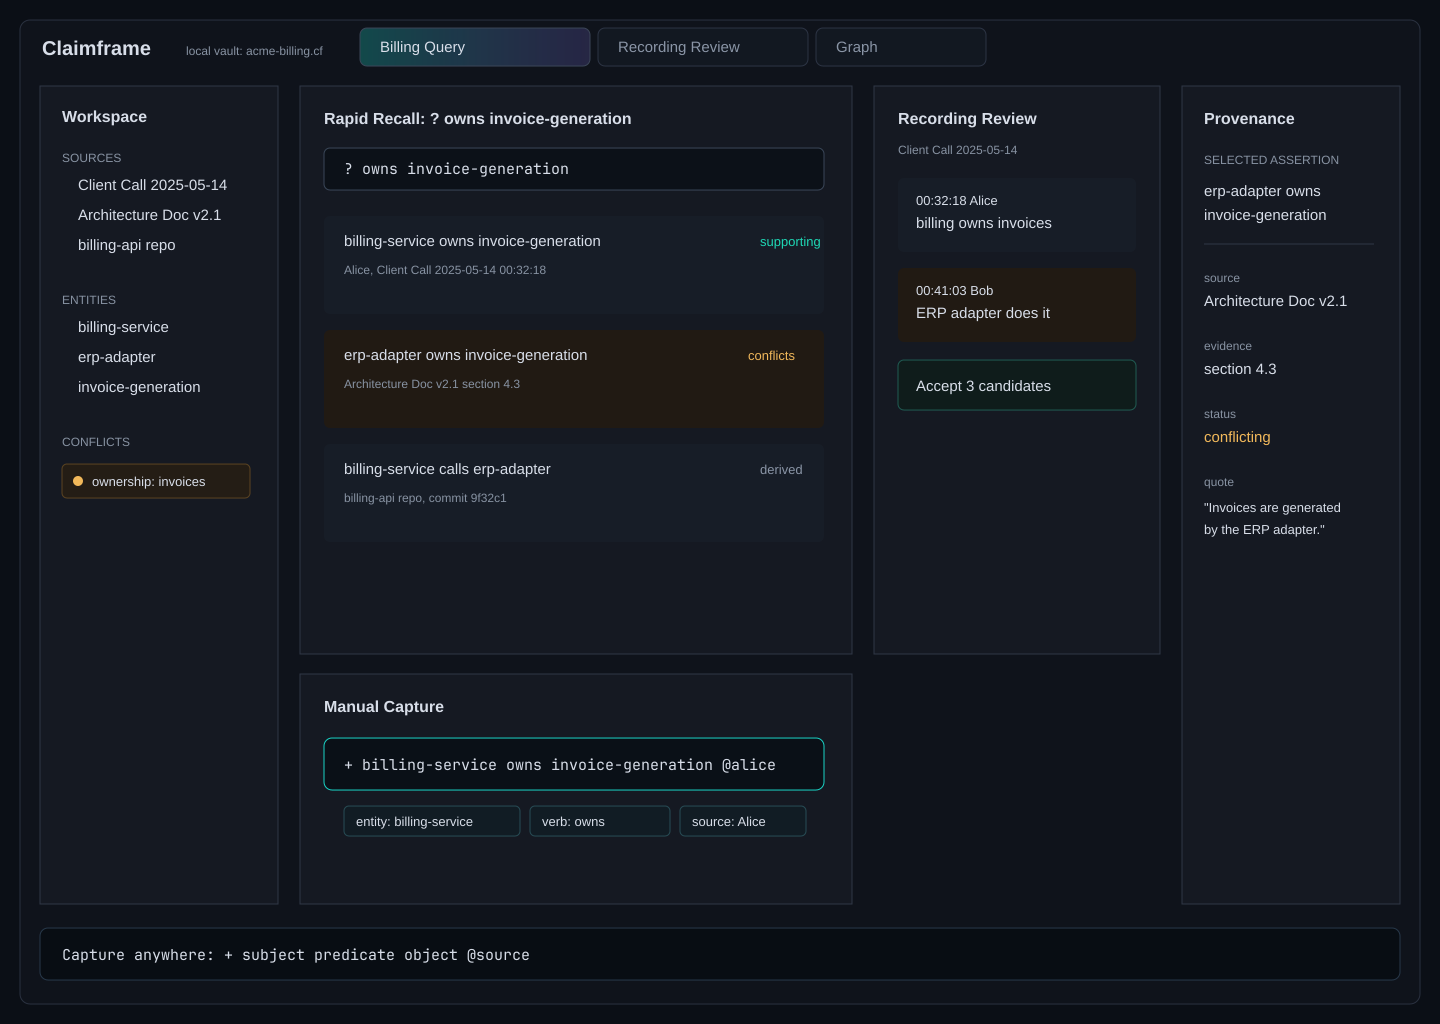
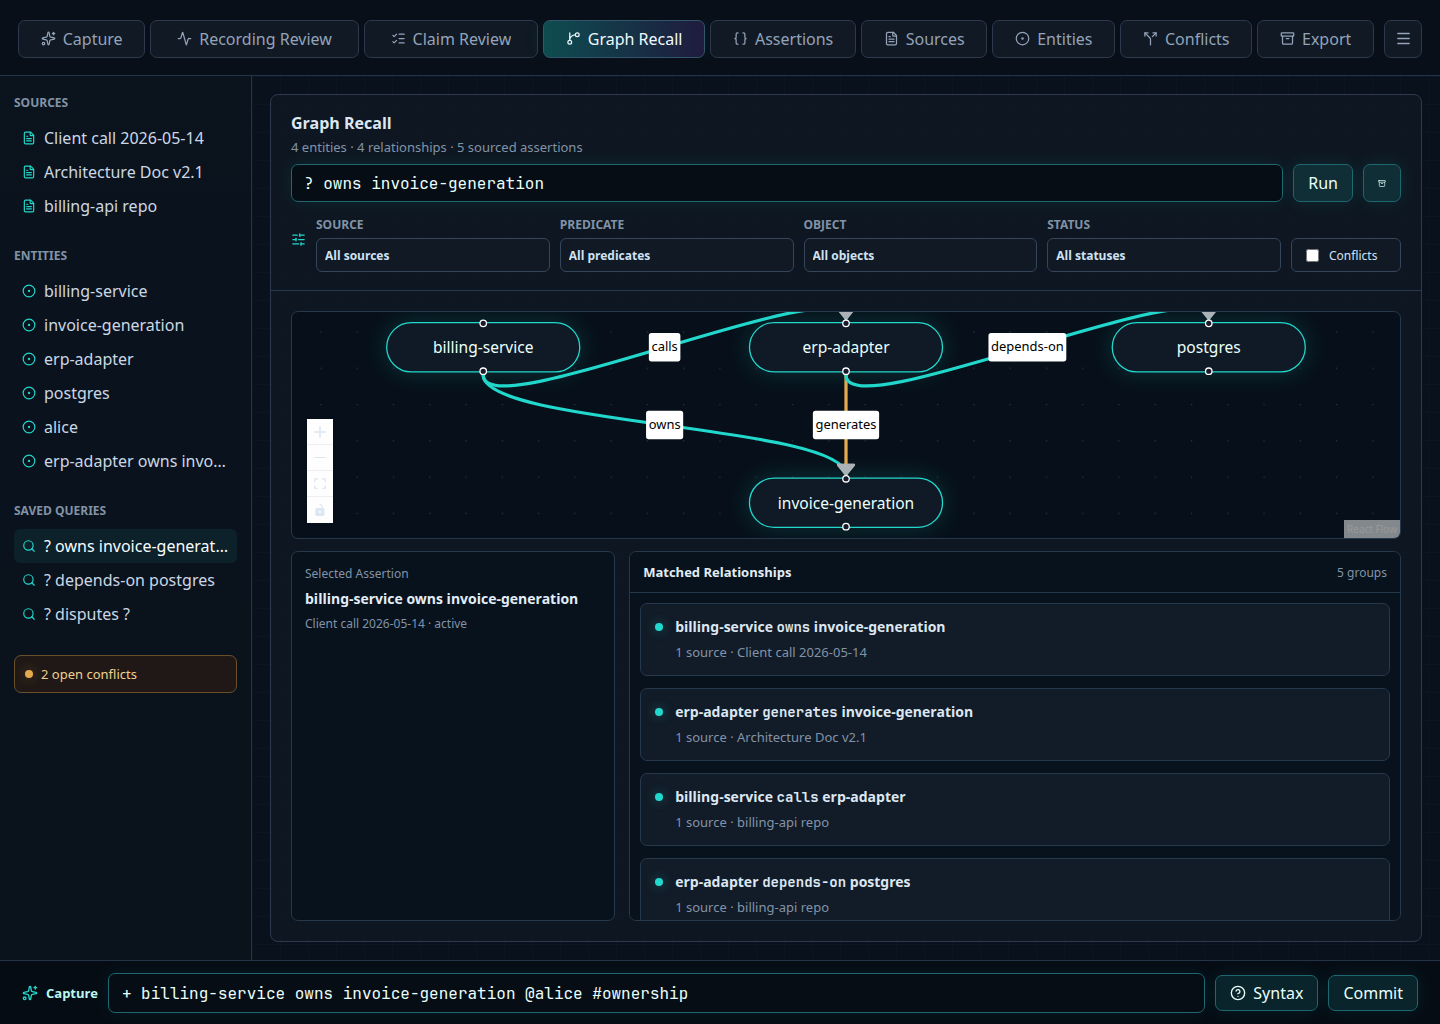
Update hero screenshot from current app

diff --git a/site/layouts/index.html b/site/layouts/index.html
@@ -668,7 +668,7 @@
             <span>vault://client-assertions</span>
             <span class="visual-dots" aria-hidden="true"><span></span><span></span><span></span></span>
           </div>
-          <img src="/assets/claimframe-workbench.png" alt="Claimframe product concept showing capture, graph recall, assertion review, and provenance panels in a dark technical workbench.">
+          <img src="/assets/claimframe-workbench.png" alt="Claimframe app screenshot showing graph recall, sourced relationship results, saved queries, and quick capture in a dark technical workbench.">
         </figure>
       </section>
 
